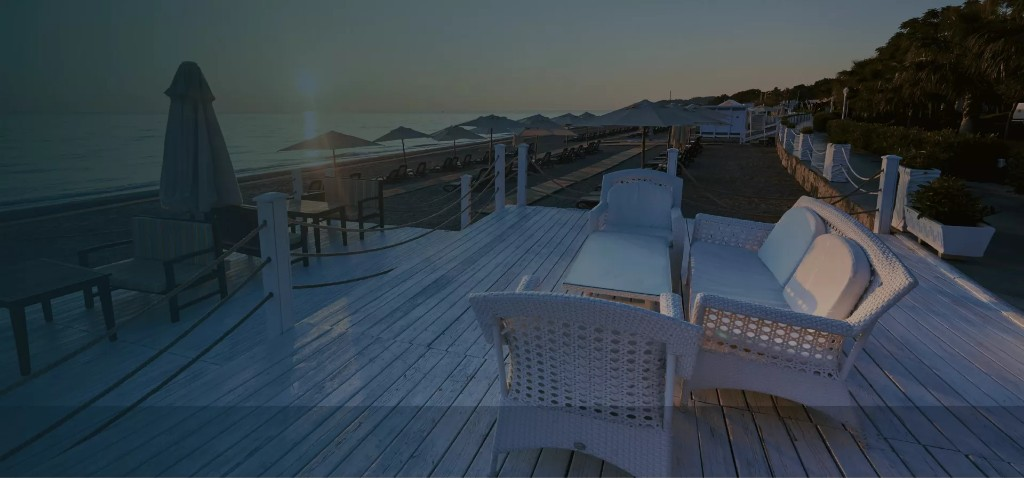
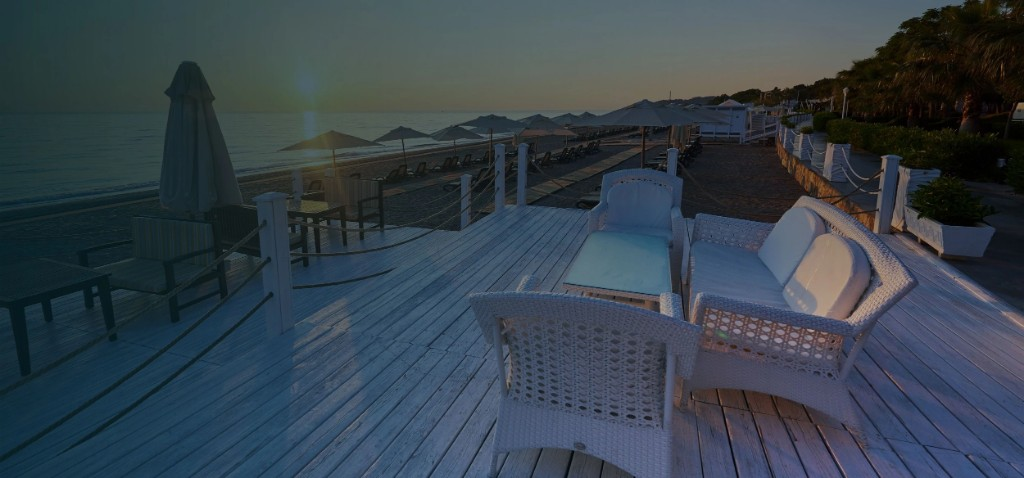
Polish mobile layout, booking bar, and section imagery.
Update hero and restaurant photos, add services heading and business gradient, fix mobile gutters and carousel controls, clip card shine effects, and add a semi-transparent booking bar.

Changed region(s): [[0.125, 0.8494, 1.0, 1.0], [0.0, 0.9958, 0.0938, 1.0]]

diff --git a/css/styles.css b/css/styles.css
@@ -12,6 +12,7 @@
   --font-main: "Montserrat", sans-serif;
 
   --container-width: 1280px;
+  --page-gutter: 24px;
   --header-height: 80px;
   --section-right-col: max(300px, 38vw);
   --section-right-start: calc(100vw - var(--section-right-col));
@@ -33,6 +34,7 @@
 
 html {
   scroll-behavior: smooth;
+  overflow-x: clip;
 }
 
 body {
@@ -41,6 +43,7 @@ body {
   color: var(--color-white);
   line-height: 1.5;
   -webkit-font-smoothing: antialiased;
+  overflow-x: clip;
 }
 
 body.menu-open {
@@ -70,7 +73,7 @@ ul {
 }
 
 .container {
-  width: min(var(--container-width), calc(100% - 48px));
+  width: min(var(--container-width), calc(100% - var(--page-gutter) * 2));
   margin-inline: auto;
 }
 
@@ -185,6 +188,7 @@ ul {
 .discover__arrow:not(:disabled) {
   overflow: hidden;
   isolation: isolate;
+  contain: paint;
 }
 
 .services__arrow:not(:disabled)::before,
@@ -378,14 +382,36 @@ ul {
 .booking {
   position: relative;
   margin-top: auto;
-  padding: 0 0 36px;
+  padding: clamp(20px, 2.5vw, 28px) var(--page-gutter);
+  z-index: 1;
+  display: flex;
+  justify-content: center;
+  align-items: center;
+}
+
+.booking::before {
+  content: "";
+  position: absolute;
+  top: 0;
+  bottom: 0;
+  left: 50%;
+  width: 100vw;
+  transform: translateX(-50%);
+  background: rgba(6, 21, 24, 0.62);
+  border-top: 1px solid rgba(255, 255, 255, 0.08);
+  pointer-events: none;
+  z-index: 0;
 }
 
 .booking__container {
+  position: relative;
+  z-index: 1;
+  flex: 0 1 auto;
+  width: min(var(--container-width), 100%);
+  margin-inline: auto;
   display: flex;
   align-items: center;
   gap: 0;
-  min-height: 72px;
 }
 
 .booking__field {
@@ -970,7 +996,8 @@ ul {
   background: rgba(14, 42, 49, 0.92);
   border: 1px solid rgba(197, 164, 126, 0.24);
   border-radius: 18px;
-  overflow: hidden;
+  overflow: clip;
+  contain: paint;
   transition: transform 0.35s ease, border-color 0.35s ease, box-shadow 0.35s ease;
 }
 
@@ -979,6 +1006,7 @@ ul {
   content: "";
   position: absolute;
   inset: 0;
+  border-radius: inherit;
   background: linear-gradient(
     105deg,
     transparent 35%,
@@ -1464,9 +1492,24 @@ body.lightbox-open {
 
 /* ===== Block 6: Services ===== */
 .services {
-  padding: clamp(32px, 4vw, 48px) 0 clamp(64px, 8vw, 100px);
+  padding: clamp(64px, 8vw, 100px) 0 clamp(64px, 8vw, 100px);
   background: var(--color-bg);
   overflow: visible;
+}
+
+.services__header {
+  margin-bottom: clamp(28px, 3.5vw, 40px);
+}
+
+.services__heading {
+  margin: 0;
+  max-width: 720px;
+  font-size: clamp(18px, 1.6vw + 10px, 24px);
+  font-weight: 400;
+  line-height: 1.5;
+  letter-spacing: 0.1em;
+  text-transform: uppercase;
+  color: var(--color-white);
 }
 
 .services .container {
@@ -1486,13 +1529,13 @@ body.lightbox-open {
   min-width: 0;
   container-type: inline-size;
   overflow-x: auto;
-  overflow-y: visible;
+  overflow-y: clip;
   scroll-snap-type: x mandatory;
   scroll-behavior: smooth;
   -webkit-overflow-scrolling: touch;
   scrollbar-width: none;
-  padding-block: 56px;
-  margin-block: -56px;
+  padding-block: 24px;
+  margin-block: -24px;
 }
 
 .services__viewport::-webkit-scrollbar {
@@ -1511,12 +1554,13 @@ body.lightbox-open {
 .services__slide {
   scroll-snap-align: start;
   display: flex;
-  padding: 32px 12px 52px;
+  padding: 8px 0 16px;
   box-sizing: border-box;
+  overflow: clip;
 }
 
 .services .services__card {
-  overflow: hidden;
+  overflow: clip;
   width: 100%;
   flex: 1;
 }
@@ -1524,6 +1568,10 @@ body.lightbox-open {
 .services__card {
   scroll-snap-align: none;
   transform-origin: center center;
+}
+
+.services .services__card:hover {
+  transform: none;
 }
 
 .services__card:hover {
@@ -1577,7 +1625,7 @@ body.lightbox-open {
   position: absolute;
   inset: 0;
   background:
-    url("../images/restaurant-bg.webp") center center / cover no-repeat;
+    url("../images/restaurant-bg.png") center center / cover no-repeat;
 }
 
 .restaurant__shade {
@@ -1661,7 +1709,6 @@ body.lightbox-open {
   left: 0;
   right: calc(50% - 50vw);
   background: rgba(10, 31, 36, 0.78);
-  border-left: 1px solid rgba(197, 164, 126, 0.45);
   z-index: 0;
 }
 
@@ -1742,6 +1789,21 @@ body.lightbox-open {
   bottom: 0;
   left: var(--section-right-start);
   background: url("../images/biz-bg.webp") top center / cover no-repeat;
+  pointer-events: none;
+}
+
+.business__bg::after {
+  content: "";
+  position: absolute;
+  inset: 0;
+  background: linear-gradient(
+    180deg,
+    transparent 0%,
+    transparent 45%,
+    rgba(10, 31, 36, 0.35) 68%,
+    rgba(10, 31, 36, 0.82) 85%,
+    var(--color-bg) 100%
+  );
   pointer-events: none;
 }
 
@@ -2010,7 +2072,7 @@ body.lightbox-open {
   z-index: 1;
   --discover-arrow-size: 44px;
   --discover-arrow-gap: 20px;
-  --discover-gutter: max(24px, calc((100vw - min(var(--container-width), 100vw - 48px)) / 2));
+  --discover-gutter: max(var(--page-gutter), calc((100vw - min(var(--container-width), 100vw - var(--page-gutter) * 2)) / 2));
   --discover-arrow-offset: calc(var(--discover-arrow-size) + var(--discover-arrow-gap));
   user-select: none;
 }
@@ -2598,8 +2660,22 @@ body.lightbox-open {
   }
 
   .services__slide {
-    padding: 16px 0 8px;
+    padding: 4px 0 8px;
     scroll-snap-align: center;
+  }
+
+  .services__viewport {
+    grid-column: 1 / -1;
+    grid-row: 1;
+    padding-block: 12px;
+    margin-block: -12px;
+  }
+
+  .services__arrow {
+    position: relative;
+    top: auto;
+    transform: none;
+    overflow: hidden;
   }
 
   .services .services__card {
@@ -2609,6 +2685,26 @@ body.lightbox-open {
   .services__carousel {
     --services-arrow-size: 40px;
     --services-arrow-gap: 12px;
+    display: grid;
+    grid-template-columns: 1fr auto auto 1fr;
+    grid-template-rows: auto auto;
+    row-gap: 20px;
+    column-gap: 12px;
+    width: 100%;
+  }
+
+  .services__arrow--prev {
+    grid-column: 2;
+    grid-row: 2;
+    left: auto;
+    justify-self: end;
+  }
+
+  .services__arrow--next {
+    grid-column: 3;
+    grid-row: 2;
+    right: auto;
+    justify-self: start;
   }
 
   .discover__track {
@@ -2618,6 +2714,42 @@ body.lightbox-open {
   .discover__carousel {
     --discover-arrow-size: 40px;
     --discover-arrow-gap: 12px;
+    display: grid;
+    grid-template-columns: 1fr auto auto 1fr;
+    grid-template-rows: auto auto;
+    row-gap: 20px;
+    column-gap: 12px;
+    padding-inline: var(--page-gutter);
+    box-sizing: border-box;
+  }
+
+  .discover__carousel-inner {
+    grid-column: 1 / -1;
+    grid-row: 1;
+    width: min(var(--container-width), 100%);
+    margin-inline: auto;
+    justify-self: center;
+  }
+
+  .discover__arrow {
+    position: relative;
+    top: auto;
+    transform: none;
+    overflow: hidden;
+  }
+
+  .discover__arrow--prev {
+    grid-column: 2;
+    grid-row: 2;
+    left: auto;
+    justify-self: end;
+  }
+
+  .discover__arrow--next {
+    grid-column: 3;
+    grid-row: 2;
+    right: auto;
+    justify-self: start;
   }
 
   .location__layout {
@@ -2686,8 +2818,6 @@ body.lightbox-open {
   .restaurant__panel::before {
     left: calc(50% - 50vw);
     right: calc(50% - 50vw);
-    border-left: none;
-    border-top: 1px solid rgba(197, 164, 126, 0.45);
   }
 
   .restaurant__panel-inner {
@@ -2775,7 +2905,7 @@ body.lightbox-open {
   }
 
   .booking {
-    padding-bottom: 24px;
+    padding: 20px var(--page-gutter);
   }
 
   .booking__field {
@@ -2849,7 +2979,7 @@ body.lightbox-open {
   }
 
   .discover__track {
-    grid-auto-columns: minmax(240px, 86cqw);
+    grid-auto-columns: 100cqw;
   }
 
   .discover__heading {

diff --git a/index.html b/index.html
@@ -448,6 +448,10 @@
   <!-- ===== BLOCK 6: Услуги Fit Revolution ===== -->
   <section class="services" id="services">
     <div class="container">
+      <header class="services__header">
+        <h2 class="services__heading reveal">Больше энергии. Лучшее восстановление.<br>Максимальная продуктивность.</h2>
+      </header>
+
       <div class="services__carousel" id="services-carousel">
         <button class="services__arrow services__arrow--prev" type="button" aria-label="Предыдущая услуга">
           <svg width="20" height="20" viewBox="0 0 24 24" fill="none" stroke="currentColor" stroke-width="1.5" aria-hidden="true"><path d="M15 6l-6 6 6 6"/></svg>

diff --git a/js/main.js b/js/main.js
@@ -266,6 +266,7 @@
       { selector: '.bio__title', delay: 0 },
       { selector: '.bio__visual', delay: 80 },
       { selector: '.bio__content', delay: 160 },
+      { selector: '.services__heading', delay: 0 },
       { selector: '.services__card', delayStep: 90 },
       { selector: '.restaurant__main-inner', delay: 0 },
       { selector: '.restaurant__item', delayStep: 80 },